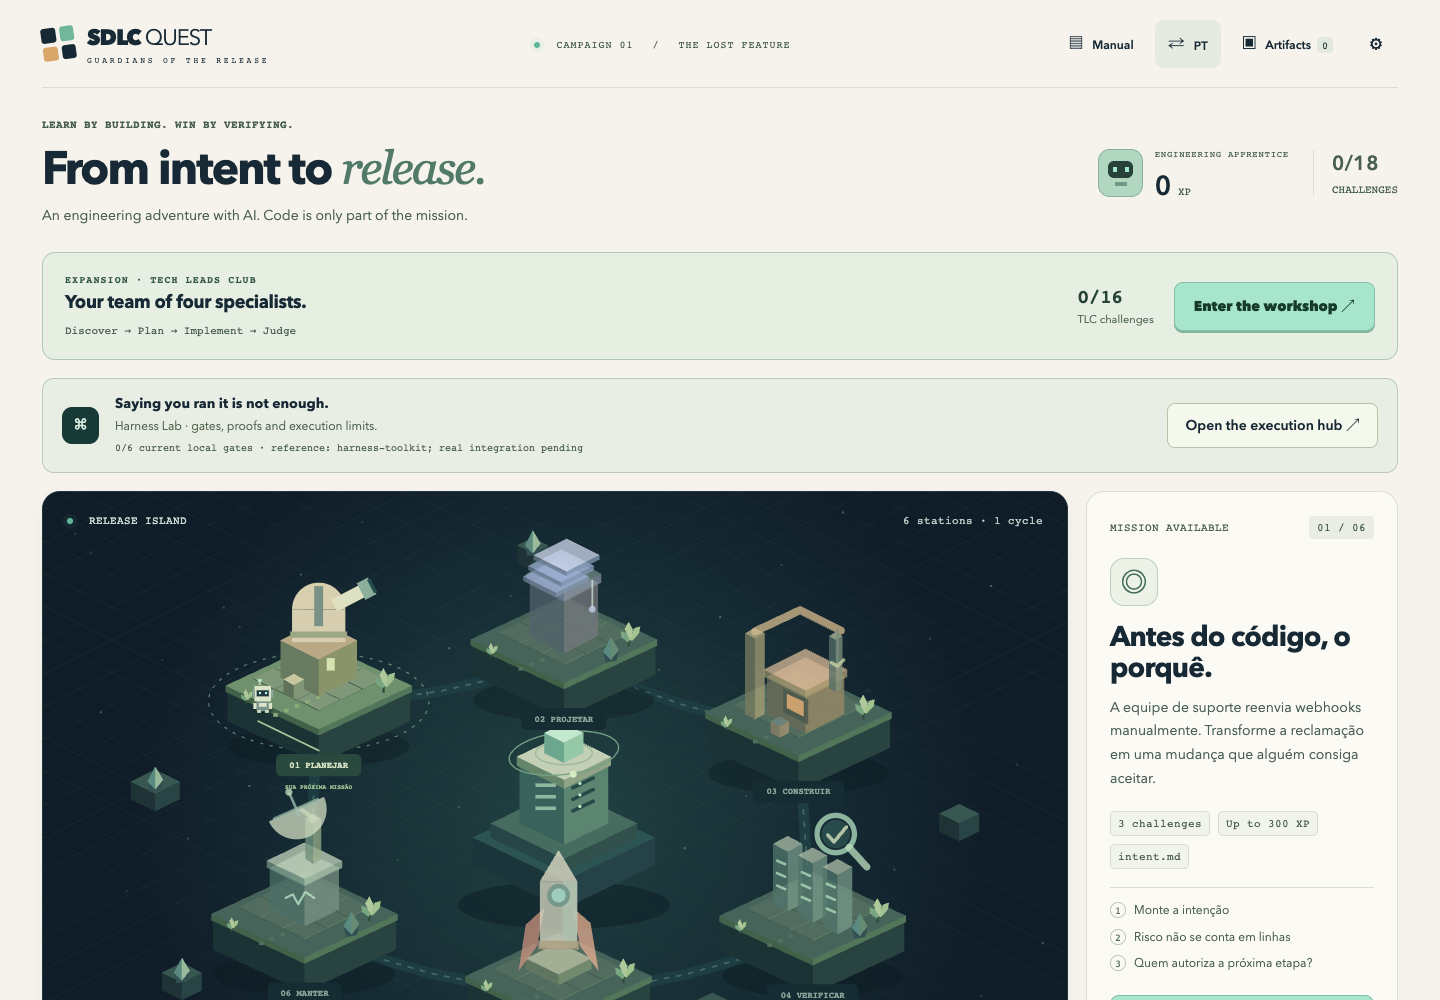
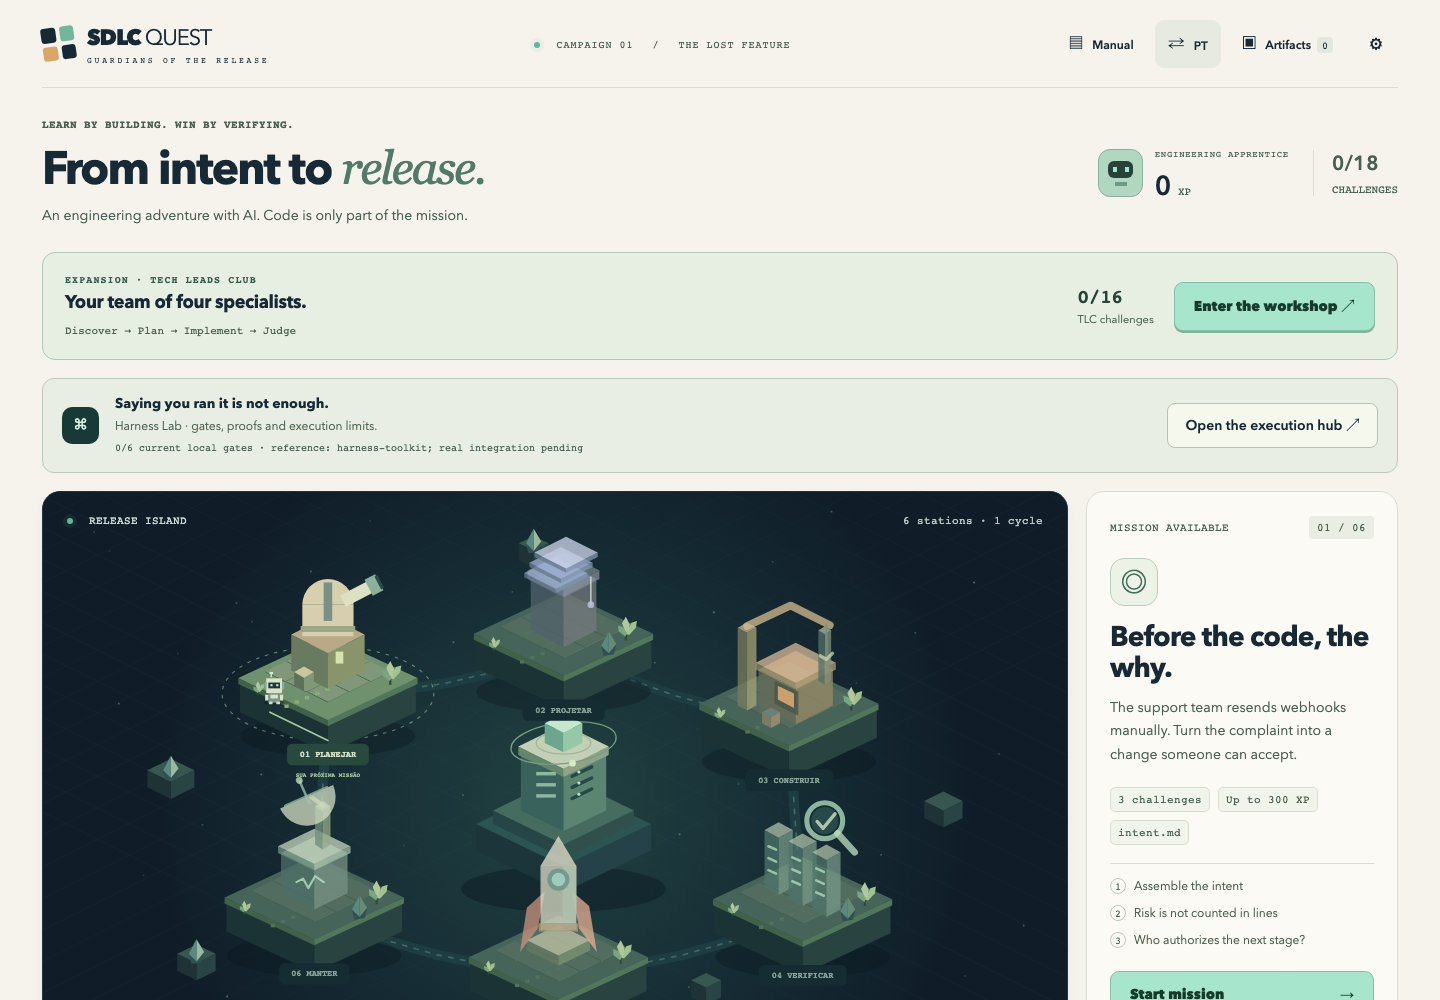
test(i18n): parity walker and EN mission-data browser checks (B2)
Add the anti-drift walker to tests/i18n.test.cjs: every displayable PT
field must carry an _en sibling, tuples a third EN element, glossary
entries term_en/def_en; planted negative fixtures prove the report names
record id and field (C6) and coverage across missions/tasks/options/
primers/glossary/sources/tlc (C7). Add C8 checks to the browser journey:
EN mission panel renders title_en/brief_en and intent option cards render
label_en/text_en against the page's own QuestData. Regenerate evidence.

diff --git a/engines/sdlc-quest/tests/i18n-browser.py b/engines/sdlc-quest/tests/i18n-browser.py
@@ -3,9 +3,9 @@
 
 C1/C2/C3 (default, toggle, persistence, progress preserved) plus the C9 single-file
 marker probe and the C10 English wrong-answer core text. The C10 assertion targets the
-CORE-module strings (gate feedback + missing-pieces message): option labels and the
-selectionReasons `why` texts are data fields whose `_en` variants land in batch B2, so
-the pt-BR why may legitimately coexist in an otherwise-English panel here.
+CORE-module strings (gate feedback + missing-pieces message); the data-record _en
+fields are spot-checked by the C8 checks below, with full parity enforced by the
+walker in tests/i18n.test.cjs rather than by this browser run.
 Same sandbox pattern as the other journeys: Playwright set_content with an explicit
 in-memory localStorage double; a "reload" is a new page seeded with the previous double
 contents. We do not claim to have tested native file:// navigation or native storage.
@@ -19,7 +19,7 @@ H=(R/'sdlc-quest.html').read_text(encoding='utf-8')
 GOLDEN=json.loads((R/'tests/fixtures/accepted-decisions.json').read_text())
 PT_MARKER='Progresso salvo neste navegador';EN_MARKER='Progress saved in this browser'
 report={'method':'Chromium / Playwright set_content / explicit in-memory localStorage double','checks':[],'errors':[],'requests':[],'started':time.strftime('%Y-%m-%dT%H:%M:%SZ',time.gmtime()),
-        'limitations':['Native file:// navigation blocked by administrative policy.','No native localStorage persistence, Safari or Firefox test.','Data-record _en fields (option labels, why texts) arrive in batch B2; core-module strings are covered here.','Exported documents (playbook, TLC guide, harness guide) remain pt-BR by design.']}
+        'limitations':['Native file:// navigation blocked by administrative policy.','No native localStorage persistence, Safari or Firefox test.','Data-record _en parity beyond the C8 spot-checks is enforced by the walker in tests/i18n.test.cjs, not by this browser run.','Exported documents (playbook, TLC guide, harness guide) remain pt-BR by design.']}
 def check(name,result=True):
  if not result:raise AssertionError(name)
  report['checks'].append(name)
@@ -68,6 +68,22 @@ try:
         and 'GUARDIÕES DO RELEASE' not in body(p)
         and PT_MARKER not in body(p))
   p.screenshot(path=str(O/'en-home.png'))
+
+  # C8: EN mission dialog renders the *_en data fields of the page's own QuestData
+  # (compare the DOM against the injected object; cards are shuffled, so match by id).
+  p.locator('[data-stage="0"]').click()
+  qd=p.evaluate('QuestData.missions[0]')
+  check('mission-plan-en',
+        p.locator('#mission-panel h2').inner_text()==qd['title_en']
+        and p.locator('#mission-panel p').first.inner_text()==qd['brief_en'])
+  p.locator('#start-mission').click()
+  opts=p.evaluate('''()=>{const t=QuestData.missions[0].tasks.find(x=>x.id==='intent');
+    return t.options.map(o=>({id:o.id,label:o.label_en,text:o.text_en}));}''')
+  cards={c.get_attribute('data-option'):c for c in p.locator('#exercise [data-option]').all()}
+  check('intent options render label_en and text_en', len(cards)==len(opts) and all(
+        cards[o['id']].locator('strong').inner_text()==o['label'] and
+        cards[o['id']].locator('p').inner_text()==o['text'] for o in opts))
+  p.keyboard.press('Escape')
   # C3a: toggling back and forth never rewrites the campaign save.
   before=p.evaluate("window.__store['sdlc-quest-save-v1']");xp_before=p.locator('#xp').inner_text()
   p.locator('#lang-btn').click()
